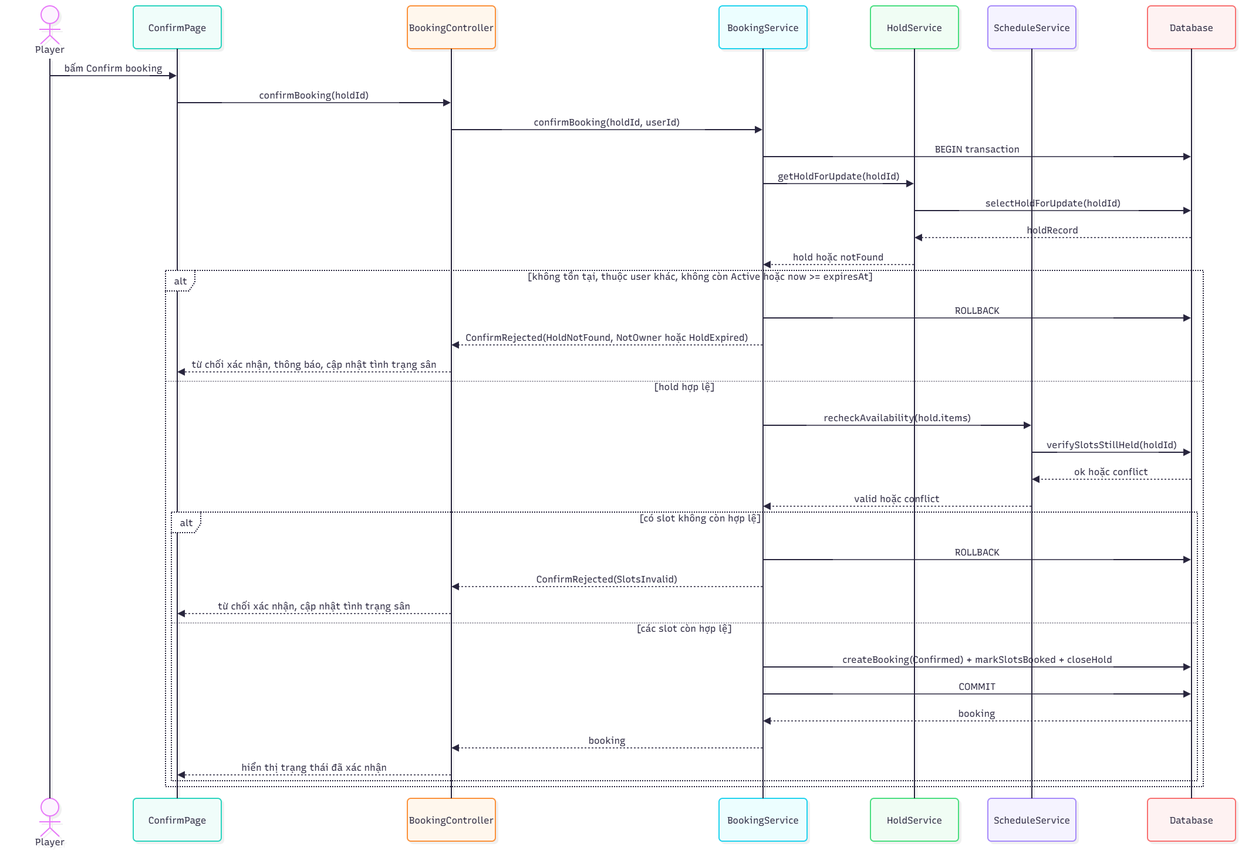
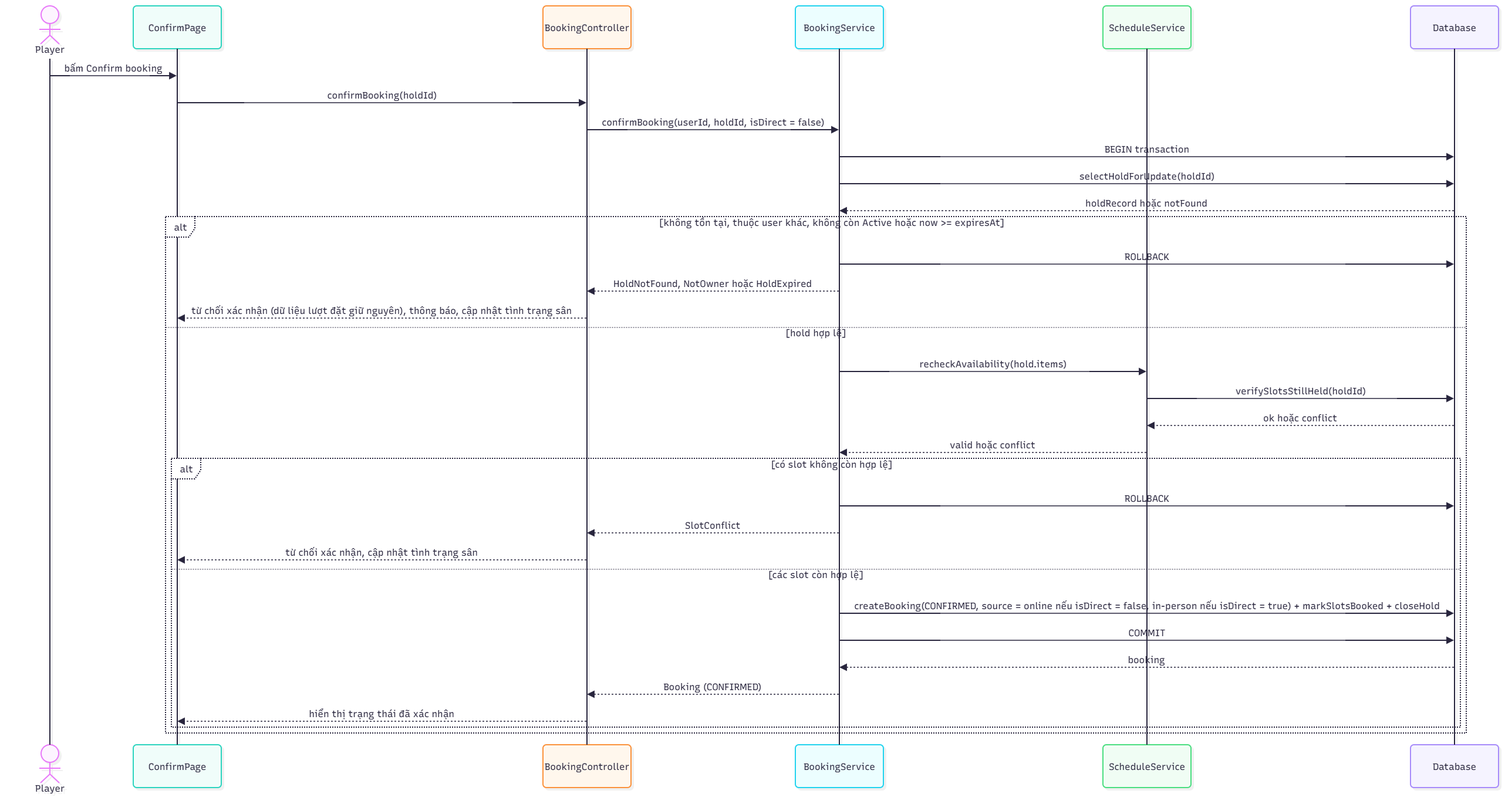
Add files via upload

diff --git a/docs/design/sequences/sequence-diagrams.md b/docs/design/sequences/sequence-diagrams.md
@@ -12,7 +12,7 @@ Năm sơ đồ tuần tự (sequence diagram) chính bao quát các use case có
 
 **Quy ước chung:**
 
-* Tên lớp và chữ ký phương thức của các thao tác giữ chỗ, xác nhận, nhả chỗ và hủy lượt đặt đã được đối chiếu đồng bộ với Class Diagram (3.3.2 — PR `#31`, mục 3.2 `CLS-08`). Sơ đồ chỉ nêu kết quả nghiệp vụ, không cố định mã HTTP (đối chiếu với đặc tả API 3.1.4 — `#12`).
+* Tên lớp và chữ ký phương thức của các thao tác giữ chỗ, xác nhận, nhả chỗ và hủy lượt đặt đã được đối chiếu đồng bộ với Class Diagram (3.3.2 — PR `#31`, mục 3.2 `CLS-08`) theo chuẩn **tham số đầu là `userId`** (thống nhất với `createHold(userId, ...)`) và do `BookingService` thực hiện trực tiếp, không qua lớp trung gian `HoldService`. Sơ đồ chỉ nêu kết quả nghiệp vụ, không cố định mã HTTP (đối chiếu với đặc tả API 3.1.4 — `#12`).
 * "Một transaction" là yêu cầu: kiểm tra và ghi nằm trong cùng một thao tác nguyên tử, tất cả hoặc không có gì. Cơ chế chống trùng (ràng buộc dữ liệu, khóa, mức cô lập) được thiết kế chi tiết tại 3.1.2 (`#10`).
 * Luật nghiệp vụ (cùng cơ sở, slot liên tiếp, hạn chót đặt, 24 giờ, 3 giờ) nằm ở backend. Đồng hồ là của máy chủ.
 * Kiểm tra xác thực (`verifySession`) chỉ vẽ ở `SEQ-01`; các sơ đồ sau coi như đã đăng nhập.
@@ -75,7 +75,7 @@ sequenceDiagram
 
 * **Truy vết:** UC-06, FR-11, FR-12, FR-14, FR-15, FR-31, BR-01, BR-06, BR-15, NFR-02, NFR-03, AC-19, AC-35, AC-36, AC-38, AC-39.
 
-Người chơi xác nhận khi hold còn hiệu lực. Toàn bộ việc đọc hold, kiểm tra và ghi nằm trong **một transaction**: hold được khóa để đọc, kiểm tra quyền sở hữu, trạng thái `Active` và `now < expiresAt`, rồi kiểm tra lại các slot. Việc từ chối khi hết hạn dựa trên `expiresAt`, **không** chờ tác vụ nhả chạy (xem `SEQ-02B`): người dùng xác nhận sau khi lượt giữ hết hạn (`now >= expiresAt`) phải nhận kết quả từ chối `ConfirmRejected(HoldExpired)` và dữ liệu lượt đặt giữ nguyên (FR-11, AC-35). Nếu hợp lệ, booking được tạo ở trạng thái `Confirmed`, các slot chuyển sang `Booked` và hold đóng. Nếu xác nhận và nhả hết hạn xảy ra cùng lúc thì chỉ một bên thắng nhờ khóa trên hold.
+Người chơi xác nhận khi hold còn hiệu lực qua `BookingService.confirmBooking(userId, holdId, isDirect)`; `isDirect` mặc định `false` với người chơi. Toàn bộ việc đọc hold, kiểm tra và ghi nằm trong **một transaction**: hold được khóa để đọc, kiểm tra quyền sở hữu, trạng thái `Active` và `now < expiresAt`, rồi kiểm tra lại các slot. Việc từ chối khi hết hạn dựa trên `expiresAt`, **không** chờ tác vụ nhả chạy (xem `SEQ-02B`): người dùng xác nhận sau khi lượt giữ hết hạn (`now >= expiresAt`) phải nhận kết quả từ chối `HoldExpired` và dữ liệu lượt đặt giữ nguyên (FR-11, AC-35). Nếu hợp lệ, booking được tạo ở trạng thái `CONFIRMED`, các slot chuyển sang `Booked` và hold đóng. Nếu xác nhận và nhả hết hạn xảy ra cùng lúc thì chỉ một bên thắng nhờ khóa trên hold.
 
 
 *Hình 4.4.2 — Sơ đồ tuần tự cho UC-06 (`SEQ-02`)*
@@ -86,22 +86,19 @@ sequenceDiagram
     participant ConfirmPage
     participant BookingController
     participant BookingService
-    participant HoldService
     participant ScheduleService
     participant Database
 
     Player->>ConfirmPage: bấm Confirm booking
     ConfirmPage->>BookingController: confirmBooking(holdId)
-    BookingController->>BookingService: confirmBooking(holdId, userId)
+    BookingController->>BookingService: confirmBooking(userId, holdId, isDirect = false)
     BookingService->>Database: BEGIN transaction
-    BookingService->>HoldService: getHoldForUpdate(holdId)
-    HoldService->>Database: selectHoldForUpdate(holdId)
-    Database-->>HoldService: holdRecord
-    HoldService-->>BookingService: hold hoặc notFound
+    BookingService->>Database: selectHoldForUpdate(holdId)
+    Database-->>BookingService: holdRecord hoặc notFound
 
     alt không tồn tại, thuộc user khác, không còn Active hoặc now >= expiresAt
         BookingService->>Database: ROLLBACK
-        BookingService-->>BookingController: ConfirmRejected(HoldNotFound, NotOwner hoặc HoldExpired)
+        BookingService-->>BookingController: HoldNotFound, NotOwner hoặc HoldExpired
         BookingController-->>ConfirmPage: từ chối xác nhận (dữ liệu lượt đặt giữ nguyên), thông báo, cập nhật tình trạng sân
     else hold hợp lệ
         BookingService->>ScheduleService: recheckAvailability(hold.items)
@@ -111,13 +108,13 @@ sequenceDiagram
 
         alt có slot không còn hợp lệ
             BookingService->>Database: ROLLBACK
-            BookingService-->>BookingController: ConfirmRejected(SlotsInvalid)
+            BookingService-->>BookingController: SlotConflict
             BookingController-->>ConfirmPage: từ chối xác nhận, cập nhật tình trạng sân
         else các slot còn hợp lệ
-            BookingService->>Database: createBooking(Confirmed) + markSlotsBooked + closeHold
+            BookingService->>Database: createBooking(CONFIRMED, source = online nếu isDirect = false, in-person nếu isDirect = true) + markSlotsBooked + closeHold
             BookingService->>Database: COMMIT
             Database-->>BookingService: booking
-            BookingService-->>BookingController: booking
+            BookingService-->>BookingController: Booking (CONFIRMED)
             BookingController-->>ConfirmPage: hiển thị trạng thái đã xác nhận
         end
     end
@@ -129,7 +126,7 @@ sequenceDiagram
 
 Sơ đồ này thể hiện bốn tình huống của một hold đang `Active`:
 
-* **Hết hạn 5 phút:** hold chuyển `Expired` (từ chối xác nhận ngay, giao diện hiển thị thông báo hết hạn và khóa nút xác nhận trong lúc nhả), tác vụ nền nhả slot trong vòng 5 giây rồi hold sang `Released`. Trong trạng thái `Expired`, giao diện nhận **ba kết quả khác nhau** từ `getHoldStatus` (FR-14, AC-20):
+* **Hết hạn 5 phút:** hold chuyển `Expired` (từ chối xác nhận ngay, giao diện hiển thị thông báo hết hạn và khóa nút xác nhận trong lúc nhả), tác vụ nền nhả slot trong vòng 5 giây rồi hold sang `Released`. Trong trạng thái `Expired`, giao diện đọc trực tiếp **ba trạng thái khác nhau** từ phản hồi API `#12` (`releaseHold` / `getActiveHold`) (FR-14, AC-20):
   * `Releasing`: đang giải phóng. Giao diện vẫn hiển thị thông báo hết hạn, tạm khóa nút xác nhận, **chưa** cho chọn lại và **không** báo lỗi; tiếp tục hỏi lại trạng thái.
   * `ReleaseFailed`: giải phóng thất bại (tác vụ nhả báo lỗi, hoặc quá 5 giây sau `expiresAt` mà hold vẫn chưa `Released`). Chỉ khi đó giao diện mới báo lỗi giải phóng và không cho tiếp tục như thể đã nhả; tác vụ nền thử lại ở chu kỳ sau.
   * `Released`: giải phóng thành công. Chỉ lúc này giao diện mới cho chọn lại và cập nhật tình trạng sân.
@@ -144,7 +141,7 @@ sequenceDiagram
     actor Player
     participant ConfirmPage
     participant BookingController
-    participant HoldService
+    participant BookingService
     participant ReleaseJob
     participant Database
 
@@ -153,22 +150,22 @@ sequenceDiagram
     alt hold hết hạn 5 phút
         Note over ConfirmPage: đếm ngược về 0 theo expiresAt của server, hiển thị thông báo hết hạn, khóa nút Confirm trong lúc nhả
         loop mỗi chu kỳ không quá 1 giây
-            ReleaseJob->>HoldService: releaseExpiredHolds(now)
-            HoldService->>Database: markExpired(holds có expiresAt <= now)
-            HoldService->>Database: releaseSlots(holds vừa hết hạn)
+            ReleaseJob->>BookingService: releaseExpiredHolds(now)
+            BookingService->>Database: markExpired(holds có expiresAt <= now)
+            BookingService->>Database: releaseSlots(holds vừa hết hạn)
 
             alt nhả thành công
-                Database-->>HoldService: ok (hold Released, slot Available)
+                Database-->>BookingService: ok (hold Released, slot Available)
             else nhả lỗi
-                Database-->>HoldService: error (hold giữ Expired, ghi nhận nhả lỗi, thử lại ở chu kỳ sau)
+                Database-->>BookingService: error (hold giữ Expired, ghi nhận nhả lỗi, thử lại ở chu kỳ sau)
             end
         end
 
-        ConfirmPage->>BookingController: getHoldStatus(holdId)
-        BookingController->>HoldService: getHoldStatus(holdId, userId)
-        HoldService->>Database: selectHold(holdId)
-        Database-->>HoldService: holdRecord
-        HoldService-->>BookingController: status (Released, Releasing hoặc ReleaseFailed)
+        ConfirmPage->>BookingController: getActiveHold()
+        BookingController->>BookingService: getActiveHold(userId)
+        BookingService->>Database: selectHold(userId)
+        Database-->>BookingService: holdRecord
+        BookingService-->>BookingController: status (Released, Releasing hoặc ReleaseFailed)
 
         alt status = Released
             BookingController-->>ConfirmPage: cho chọn lại, cập nhật tình trạng sân
@@ -180,18 +177,26 @@ sequenceDiagram
 
     else người dùng hủy, quay lại hoặc đổi lựa chọn
         ConfirmPage->>BookingController: releaseHold(holdId)
-        BookingController->>HoldService: releaseHold(holdId, userId)
-        HoldService->>Database: setReleased + releaseSlots (một transaction)
-        Database-->>HoldService: ok
-        HoldService-->>BookingController: Released
-        BookingController-->>ConfirmPage: về màn chọn slot, cập nhật tình trạng sân
+        BookingController->>BookingService: releaseHold(userId, holdId)
+        BookingService->>Database: selectHoldForUpdate(holdId)
+        Database-->>BookingService: holdRecord
+
+        alt hold không thuộc user này
+            BookingService-->>BookingController: NotOwner
+            BookingController-->>ConfirmPage: từ chối nhả, dữ liệu không đổi
+        else đúng chủ hold
+            BookingService->>Database: setReleased + releaseSlots (một transaction)
+            Database-->>BookingService: ok
+            BookingService-->>BookingController: Released
+            BookingController-->>ConfirmPage: về màn chọn slot, cập nhật tình trạng sân
+        end
 
     else tải lại trang
         ConfirmPage->>BookingController: getActiveHold()
-        BookingController->>HoldService: getActiveHold(userId)
-        HoldService->>Database: selectActiveHold(userId)
-        Database-->>HoldService: hold
-        HoldService-->>BookingController: hold(expiresAt, serverNow)
+        BookingController->>BookingService: getActiveHold(userId)
+        BookingService->>Database: selectActiveHold(userId)
+        Database-->>BookingService: hold
+        BookingService-->>BookingController: hold(expiresAt, serverNow)
         BookingController-->>ConfirmPage: tiếp tục đếm ngược, không đặt lại 5 phút
 
     else đóng tab hoặc mất kết nối
@@ -216,30 +221,34 @@ sequenceDiagram
     participant BookingService
     participant Database
 
-    Player->>BookingDetailPage: bấm Cancel
-    BookingDetailPage->>BookingController: cancelBooking(bookingId)
-    BookingController->>BookingService: cancelBooking(bookingId, userId)
+    Player->>BookingDetailPage: bấm Cancel (có thể nhập lý do)
+    BookingDetailPage->>BookingController: cancelBooking(bookingId, reason?)
+    BookingController->>BookingService: cancelBookingByPlayer(userId, bookingId, reason?)
     BookingService->>Database: BEGIN transaction
     BookingService->>Database: getBookingForUpdate(bookingId)
-    Database-->>BookingService: booking
+    Database-->>BookingService: booking hoặc notFound
 
-    alt không tồn tại hoặc không phải chủ booking
+    alt không tồn tại
         BookingService->>Database: ROLLBACK
-        BookingService-->>BookingController: CancelNotAllowed(NotFoundOrNotOwner)
+        BookingService-->>BookingController: BookingNotFound
         BookingController-->>BookingDetailPage: từ chối hủy
-    else booking không ở trạng thái Confirmed
+    else không phải chủ booking
         BookingService->>Database: ROLLBACK
-        BookingService-->>BookingController: CancelNotAllowed(InvalidState)
+        BookingService-->>BookingController: NotOwner
+        BookingController-->>BookingDetailPage: từ chối hủy
+    else booking không ở trạng thái CONFIRMED
+        BookingService->>Database: ROLLBACK
+        BookingService-->>BookingController: InvalidState
         BookingController-->>BookingDetailPage: từ chối hủy
     else còn dưới 3 giờ trước slot sớm nhất
         BookingService->>Database: ROLLBACK
-        BookingService-->>BookingController: CancelNotAllowed(TooLate)
+        BookingService-->>BookingController: CancelDeadlinePassed
         BookingController-->>BookingDetailPage: từ chối hủy
     else đúng chủ, còn ít nhất 3 giờ (đúng 3 giờ vẫn được)
-        BookingService->>Database: setStatus(CancelledByPlayer) + releaseSlots
+        BookingService->>Database: setStatus(CANCELLED_BY_PLAYER, reason) + releaseSlots
         BookingService->>Database: COMMIT
         Database-->>BookingService: ok
-        BookingService-->>BookingController: CancelledByPlayer
+        BookingService-->>BookingController: Booking (CANCELLED_BY_PLAYER)
         BookingController-->>BookingDetailPage: hủy thành công, lịch được cập nhật
     end
 ```
@@ -311,7 +320,7 @@ sequenceDiagram
                     Note over FacilityOwner,CourtSchedulePage: chủ sân xem danh sách mới rồi xác nhận lại, quay về bước confirmBlock
                 else danh sách khớp và hợp lệ
                     ScheduleService->>BookingService: cancelAffected(confirmedBookings, reason)
-                    BookingService->>Database: setStatus(CancelledByOwner) + releaseSlots
+                    BookingService->>Database: setStatus(CANCELLED_BY_OWNER) + releaseSlots
                     Database-->>BookingService: ok
                     BookingService-->>ScheduleService: ok
                     ScheduleService->>Database: createBlockedPeriod(courtId, period)
@@ -334,7 +343,7 @@ sequenceDiagram
 
 * **Truy vết:** UC-13, FR-03, FR-10, FR-11, FR-12, FR-21, FR-22, FR-27, BR-03, BR-08, BR-10, BR-13, NFR-02..04, NFR-08, AC-07, AC-25, AC-33.
 
-Chủ sân đặt thay khách tại quầy theo đúng luồng của người chơi: chọn sân và slot, giữ chỗ, rồi xác nhận (UC-05 và UC-06). Khác biệt: hệ thống kiểm tra chủ sân có quản lý cơ sở đó (`verifyFacilityOwner(userId, facilityId)`), sau đó `BookingController` gọi `BookingService.createHold(userId, FacilityOwner, facilityId, selections, isDirect = true)` (đồng bộ với `CLS-08` ở PR `#31`). Chỉ khi `actorRole = FacilityOwner` đã qua kiểm tra quyền sở hữu `facilityId` và `isDirect = true`, chủ sân mới được miễn giới hạn đặt trước 2 slot (60 phút) để đặt được khung giờ bắt đầu sau 30 phút (FR-27, AC-25), nhưng vẫn không được đè lên slot đang held, booked hoặc unavailable (BR-13). Booking được ghi vào lịch chung với nguồn là `in-person` (không lưu thông tin khách, `ASM-09`). Hold hết hạn, nhả, tải lại và đóng tab xử lý như `SEQ-02B`.
+Chủ sân đặt thay khách tại quầy theo đúng luồng của người chơi: chọn sân và slot, giữ chỗ, rồi xác nhận (UC-05 và UC-06). Khác biệt: hệ thống kiểm tra chủ sân có quản lý cơ sở đó (`verifyFacilityOwner(userId, facilityId)`), sau đó `BookingController` gọi `BookingService.createHold(userId, FacilityOwner, facilityId, selections, isDirect = true)` (đồng bộ với `CLS-08` ở PR `#31`). Chỉ khi `actorRole = FacilityOwner` đã qua kiểm tra quyền sở hữu `facilityId` và `isDirect = true`, chủ sân mới được miễn giới hạn đặt trước 2 slot (60 phút) để đặt được khung giờ bắt đầu sau 30 phút (FR-27, AC-25), nhưng vẫn không được đè lên slot đang held, booked hoặc unavailable (BR-13). Khi xác nhận, `BookingService.confirmBooking(userId, holdId, isDirect = true)` được gọi với `isDirect = true` sau khi đã kiểm tra quyền sở hữu cơ sở. Booking được ghi vào lịch chung với nguồn là `in-person` (không lưu thông tin khách, `ASM-09`). Hold hết hạn, nhả, tải lại và đóng tab xử lý như `SEQ-02B`.
 
 
 *Hình 4.4.5 — Sơ đồ tuần tự cho UC-13 (`SEQ-05`)*
@@ -346,7 +355,6 @@ sequenceDiagram
     participant BookingController
     participant AuthService
     participant BookingService
-    participant HoldService
     participant ScheduleService
     participant Database
 
@@ -360,43 +368,39 @@ sequenceDiagram
     else là chủ cơ sở
         AuthService-->>BookingController: authorized
         BookingController->>BookingService: createHold(userId, FacilityOwner, facilityId, selections, isDirect = true)
-        BookingService->>HoldService: createHold(userId, FacilityOwner, facilityId, selections, isDirect = true)
-        HoldService->>ScheduleService: validateSelection(facilityId, selections, FacilityOwner, isDirect = true, now)
-        Note over HoldService,ScheduleService: isDirect = true tại cơ sở quản lý nên được miễn giới hạn đặt trước 2 slot (đặt trước 30 phút vẫn hợp lệ theo AC-25), các luật khác như SEQ-01
+        BookingService->>ScheduleService: validateSelection(facilityId, selections, FacilityOwner, isDirect = true, now)
+        Note over BookingService,ScheduleService: isDirect = true tại cơ sở quản lý nên được miễn giới hạn đặt trước 2 slot (đặt trước 30 phút vẫn hợp lệ theo AC-25), các luật khác như SEQ-01
 
         alt vi phạm luật lựa chọn
-            ScheduleService-->>HoldService: invalid(reason)
-            HoldService-->>BookingService: SelectionInvalid(reason)
+            ScheduleService-->>BookingService: invalid(reason)
             BookingService-->>BookingController: SelectionInvalid(reason)
             BookingController-->>BookingPage: báo lỗi, không giữ slot nào, xóa lựa chọn
         else lựa chọn đúng luật
-            ScheduleService-->>HoldService: valid
-            HoldService->>Database: createHoldAtomically(userId, facilityId, selections, expiresAt = now + 5 phút)
-            Note over HoldService,Database: một transaction: kiểm tra mọi slot còn trống rồi ghi hold, không đè slot held, booked hoặc unavailable
+            ScheduleService-->>BookingService: valid
+            BookingService->>Database: createHoldAtomically(userId, facilityId, selections, expiresAt = now + 5 phút)
+            Note over BookingService,Database: một transaction: kiểm tra mọi slot còn trống rồi ghi hold, không đè slot held, booked hoặc unavailable
 
             alt slot đang held, booked hoặc unavailable
-                Database-->>HoldService: conflict(slots), rollback, không giữ slot nào
-                HoldService-->>BookingService: SelectionInvalid(slots)
+                Database-->>BookingService: conflict(slots), rollback, không giữ slot nào
                 BookingService-->>BookingController: SelectionInvalid(slots)
                 BookingController-->>BookingPage: báo slot lỗi, xóa lựa chọn
             else giữ chỗ thành công
-                Database-->>HoldService: hold (expiresAt = now + 5 phút)
-                HoldService-->>BookingService: hold
+                Database-->>BookingService: hold (expiresAt = now + 5 phút)
                 BookingService-->>BookingController: hold
                 BookingController-->>BookingPage: màn hình xác nhận + thời gian giữ chỗ còn lại
 
                 FacilityOwner->>BookingPage: bấm Confirm booking
                 BookingPage->>BookingController: confirmBooking(holdId)
-                BookingController->>BookingService: confirmBooking(holdId, userId)
-                Note over BookingController,BookingService: kiểm tra hold và slot trong một transaction như SEQ-02
+                BookingController->>BookingService: confirmBooking(userId, holdId, isDirect = true)
+                Note over BookingController,BookingService: isDirect = true chỉ được truyền sau khi đã kiểm tra quyền sở hữu cơ sở. Kiểm tra hold và slot trong một transaction như SEQ-02
 
-                alt xác nhận bị từ chối (hold hết hạn, không hợp lệ hoặc slot không còn hợp lệ)
-                    BookingService-->>BookingController: ConfirmRejected(reason)
+                alt xác nhận bị từ chối (HoldNotFound, NotOwner, HoldExpired hoặc SlotConflict)
+                    BookingService-->>BookingController: HoldNotFound, NotOwner, HoldExpired hoặc SlotConflict
                     BookingController-->>BookingPage: từ chối xác nhận, cập nhật tình trạng sân
                 else xác nhận thành công
-                    BookingService->>Database: createBooking(source = in-person) + markSlotsBooked + closeHold
+                    BookingService->>Database: createBooking(CONFIRMED, source = in-person) + markSlotsBooked + closeHold
                     Database-->>BookingService: booking
-                    BookingService-->>BookingController: booking
+                    BookingService-->>BookingController: Booking (CONFIRMED)
                     BookingController-->>BookingPage: booking đã ghi vào lịch chung
                 end
             end
@@ -418,22 +422,23 @@ UC-12 (đổi giờ hoạt động hoặc xóa sân) không có sơ đồ riêng
 
 ### 8.1 Bảng thống nhất 4 thao tác trọng tâm (Đồng bộ với Mục 3.2 `CLS-08` của PR `#31`)
 
-| Thao tác | Lớp thực hiện | Tham số | Kết quả thành công | Kết quả khi thất bại | Đối chiếu tình huống kiểm chứng |
-| ----- | ----- | ----- | ----- | ----- | ----- |
-| **Giữ chỗ (`createHold`)** | `BookingService` (gọi `ScheduleService.validateSelection` và ghi nguyên tử) | `(userId, actorRole, facilityId, selections, isDirect)` | `Hold` (`status = Active`, `expiresAt = now + 5 phút`) | `SelectionInvalid(reason)` hoặc `SelectionInvalid(slots)` (rollback toàn bộ, không giữ slot nào) | Chủ sân đã qua `verifyFacilityOwner(userId, facilityId)` gọi với `actorRole = FacilityOwner, isDirect = true` vẫn đặt tại quầy được khi khung giờ bắt đầu sau 30 phút (AC-25). |
-| **Xác nhận (`confirmBooking`)** | `BookingService` (phối hợp `HoldService.getHoldForUpdate` và `ScheduleService.recheckAvailability`) | `(holdId, userId)` | `Booking` (`status = Confirmed`, `source = online` hoặc `in-person`), đóng `Hold`, các slot sang `Booked` | `ConfirmRejected(HoldNotFound \| NotOwner \| HoldExpired \| SlotsInvalid)` (rollback, không tạo booking) | Người dùng xác nhận sau khi lượt giữ hết hạn (`now >= expiresAt`) nhận ngay kết quả từ chối `ConfirmRejected(HoldExpired)`, dữ liệu lượt đặt giữ nguyên (FR-11, AC-35). |
-| **Nhả chỗ (`releaseHold` / `releaseExpiredHolds` / `getHoldStatus`)** | `HoldService` (được gọi từ `BookingController` hoặc `ReleaseJob`) | `releaseHold(holdId, userId)`; `releaseExpiredHolds(now)`; `getHoldStatus(holdId, userId)` | `Released` (hold sang `Released`, slot về `Available`) | Khi hết hạn mà chưa nhả xong: `Releasing` (đang giải phóng $< 5$ giây) hoặc `ReleaseFailed` (nhả lỗi hoặc quá 5 giây) | Giao diện chỉ mở cho chọn lại sau khi nhận `Released` (FR-14, AC-20). |
-| **Hủy lượt đặt (`cancelBooking` / `cancelAffected`)** | `BookingService` | Người chơi: `cancelBooking(bookingId, userId)`; Chủ sân (qua `ScheduleService.applyChange`): `cancelAffected(confirmedBookings, reason)` | `CancelledByPlayer` (khi còn $\ge 3$ giờ) hoặc `CancelledByOwner` (khi còn $\ge 24$ giờ, kèm thông báo), nhả toàn bộ slot của đơn | `CancelNotAllowed(NotFoundOrNotOwner \| InvalidState \| TooLate)` (rollback, giữ nguyên trạng thái `Confirmed`) | Hủy toàn bộ đơn, đúng mốc $\ge 3$ giờ với người chơi (FR-28, AC-26, AC-27) và $\ge 24$ giờ với chủ sân (FR-29, AC-28, AC-29). |
+Chuẩn chung: **tham số đầu là `userId`** (thống nhất với `createHold(userId, ...)`) và `BookingService` thực hiện trực tiếp (không cần lớp trung gian `HoldService`; nếu `SEQ` giữ tên `HoldService` thì ánh xạ 1-1 sang `BookingService`).
+
+| Thao tác | Lớp & Chữ ký chốt | Nguồn / Ghi chú | Kết quả thành công | Kết quả thất bại |
+| ----- | ----- | ----- | ----- | ----- |
+| **Giữ chỗ** | `BookingService.createHold(userId, actorRole, facilityId, selections, isDirect)` | Gọi `ScheduleService.validateSelection` rồi ghi nguyên tử. `isDirect` mặc định `false` với người chơi; chủ sân đã qua `verifyFacilityOwner(userId, facilityId)` gọi với `actorRole = FacilityOwner, isDirect = true` thì đặt tại quầy được khi khung giờ bắt đầu sau 30 phút (AC-25). | `Hold` (`status = Active`, `expiresAt = now + 5 phút`) | `SelectionInvalid(reason)` hoặc `SelectionInvalid(slots)` (rollback toàn bộ, không giữ slot nào) |
+| **Xác nhận lượt đặt** | `BookingService.confirmBooking(userId, holdId, isDirect)` | `isDirect` mặc định `false` với người chơi; với đặt tại quầy được truyền `true` từ tầng đặt tại quầy sau khi đã kiểm tra quyền sở hữu (hoặc đối chiếu khớp với `SlotHold`). Phối hợp `ScheduleService.recheckAvailability`. | `Booking` (`CONFIRMED`) | `HoldNotFound`, `NotOwner`, `HoldExpired`, `SlotConflict` (rollback, dữ liệu giữ nguyên, không tạo booking) |
+| **Nhả chỗ** | `BookingService.releaseHold(userId, holdId)` | UI (`UI-07`) đọc 3 trạng thái `Releasing`, `ReleaseFailed`, `Released` trực tiếp từ phản hồi API `#12` (`releaseHold` / `getActiveHold`). Tác vụ nền `ReleaseJob` gọi `BookingService.releaseExpiredHolds(now)`. | `Released` (hold sang `Released`, slot về `Available`) | `Releasing` (đang xử lý, chờ), `ReleaseFailed` (báo lỗi, giữ màn hình), `NotOwner` |
+| **Người chơi hủy lượt đặt** | `BookingService.cancelBookingByPlayer(userId, bookingId, reason?)` | `reason` là tham số **tùy chọn** (`reason?: String`), có thể bỏ trống. Hủy toàn bộ đơn, đúng mốc $\ge 3$ giờ (FR-28, AC-26, AC-27). Chủ sân hủy do khóa slot đi qua `cancelAffected(confirmedBookings, reason)` ($\ge 24$ giờ, FR-29, AC-28, AC-29). | `Booking` (`CANCELLED_BY_PLAYER`) | `BookingNotFound`, `NotOwner`, `CancelDeadlinePassed` ($< 3$ giờ), `InvalidState` (booking không ở `CONFIRMED`) |
 
 ### 8.2 Danh sách đầy đủ các operation theo lớp
 
 | Lớp | Operation | Truy vết sơ đồ |
 | ----- | ----- | ----- |
-| **BookingController** | `proceedToBooking(facilityId, selections)`; `confirmBooking(holdId)`; `cancelBooking(bookingId)`; `releaseHold(holdId)`; `getActiveHold()`; `getHoldStatus(holdId)` | `SEQ-01`, `SEQ-02`, `SEQ-02B`, `SEQ-03`, `SEQ-05` |
+| **BookingController** | `proceedToBooking(facilityId, selections)`; `confirmBooking(holdId)`; `cancelBooking(bookingId, reason?)`; `releaseHold(holdId)`; `getActiveHold()` | `SEQ-01`, `SEQ-02`, `SEQ-02B`, `SEQ-03`, `SEQ-05` |
 | **FacilityController** | `previewBlock(courtId, period)`; `confirmBlock(courtId, period, confirmedBookings)` (và hai điểm vào tương ứng cho đổi giờ hoạt động, xóa sân) | `SEQ-04`, `SEQ-04B` |
 | **AuthService** | `verifySession()`; `verifyFacilityOwner(userId, facilityId)` | `SEQ-01`, `SEQ-04`, `SEQ-05` |
-| **BookingService** | `createHold(userId, actorRole, facilityId, selections, isDirect)`; `confirmBooking(holdId, userId)`; `cancelBooking(bookingId, userId)`; `cancelAffected(confirmedBookings, reason)` | `SEQ-01`, `SEQ-02`, `SEQ-03`, `SEQ-04`, `SEQ-05` |
-| **HoldService** | `getHoldForUpdate(holdId)`; `releaseHold(holdId, userId)`; `getActiveHold(userId)`; `getHoldStatus(holdId, userId)` (trả `Released`, `Releasing` hoặc `ReleaseFailed`); `releaseExpiredHolds(now)` | `SEQ-02`, `SEQ-02B` |
+| **BookingService** | `createHold(userId, actorRole, facilityId, selections, isDirect)`; `confirmBooking(userId, holdId, isDirect)`; `releaseHold(userId, holdId)`; `getActiveHold(userId)` (trả `Released`, `Releasing` hoặc `ReleaseFailed`); `releaseExpiredHolds(now)`; `cancelBookingByPlayer(userId, bookingId, reason?)`; `cancelAffected(confirmedBookings, reason)` | `SEQ-01`, `SEQ-02`, `SEQ-02B`, `SEQ-03`, `SEQ-04`, `SEQ-05` |
 | **ScheduleService** | `validateSelection(facilityId, selections, actorRole, isDirect, now)`; `recheckAvailability(items)`; `previewChange(change, now)`; `applyChange(change, confirmedBookings, now)` | `SEQ-01`, `SEQ-02`, `SEQ-04`, `SEQ-04B`, `SEQ-05` |
 | **NotificationService** | `notify(players, reason, booking, slots)` | `SEQ-04`, `SEQ-04B` |
 | **ReleaseJob** (tác vụ nền) | gọi `releaseExpiredHolds(now)` theo chu kỳ không quá 1 giây | `SEQ-02B` |
@@ -447,8 +452,6 @@ UC-12 (đổi giờ hoạt động hoặc xóa sân) không có sơ đồ riêng
 
   * \[x\] Đã bao phủ đủ UC-05, UC-06, UC-08, UC-11, UC-13 và bảng so sánh UC-12; có luồng `alt` ở mọi sơ đồ.
 
-  * \[x\] Đã đồng bộ lời gọi giữ chỗ sang `BookingService.createHold(userId, actorRole, facilityId, selections, isDirect)` ở `SEQ-01` (`isDirect = false`), `SEQ-05` (`isDirect = true` sau `verifyFacilityOwner`) và bảng `SEQ-OPS`, khớp với Mục 3.2 (`CLS-08`) trong PR `#31`.
-
   * \[x\] Bước kiểm tra xung đột và ghi hold (`SEQ-01`, `SEQ-05`) và bước kiểm tra, ghi khi xác nhận (`SEQ-02`) nằm trong cùng một transaction; có nhánh thua yêu cầu cùng lúc và nhánh từ chối xác nhận khi hết hạn giữ nguyên dữ liệu lượt đặt (FR-11, AC-35).
 
   * \[x\] `SEQ-02B` thể hiện hết hạn, nhả (kể cả nhả lỗi), hủy, tải lại và đóng tab; mọi operation trong `SEQ-OPS` đều được sơ đồ dùng.
@@ -459,20 +462,19 @@ UC-12 (đổi giờ hoạt động hoặc xóa sân) không có sơ đồ riêng
 
   * \[x\] Đã mở từng khối Mermaid trên preview GitHub (hoặc mermaid.live) và không có lỗi cú pháp.
 
-  * \[x\] Đã xuất lại ảnh `sd-1-uc05.png` và `sd-5-uc13.png` từ nguồn Mermaid đã cập nhật.
 
 * **Các quyết định thiết kế chính:**
 
-  1. Đồng bộ điểm vào tạo hold tại `BookingService.createHold(userId, actorRole, facilityId, selections, isDirect)` (khớp `CLS-08` ở PR `#31`), phối hợp `ScheduleService` kiểm tra luật lựa chọn và `HoldService` quản lý vòng đời giữ chỗ 5 phút / giải phóng; việc ghi hold, xác nhận và áp dụng thay đổi lịch đều nguyên tử (đối chiếu với `#10`).
+  1. Đồng bộ điểm vào tạo hold tại `BookingService.createHold(userId, actorRole, facilityId, selections, isDirect)` (khớp `CLS-08` ở PR `#31`), phối hợp `ScheduleService` kiểm tra luật lựa chọn; `BookingService` thực hiện trực tiếp cả vòng đời giữ chỗ 5 phút / giải phóng (không còn lớp trung gian `HoldService`), mọi thao tác theo chuẩn tham số đầu là `userId`; việc ghi hold, xác nhận và áp dụng thay đổi lịch đều nguyên tử (đối chiếu với `#10`).
 
   2. Mẫu 2 bước (`previewChange` -> `applyChange` kèm kiểm tra lại trong transaction) cho UC-11 và UC-12, với `change` là tham số chung. Chỉ hủy đúng danh sách đã được chủ sân xác nhận và kiểm tra lại; danh sách đổi thì trả danh sách mới để xác nhận lại.
 
   3. Từ chối xác nhận dựa vào `expiresAt` chứ không phụ thuộc tác vụ nhả; tác vụ nền chỉ nhả slot.
 
-* **Điểm còn mở và liên kết đối chiếu (theo phân công tạm thời):**
+* **Điểm còn mở và liên kết đối chiếu :**
 
   * `@Lysivi2005` (phụ trách Class Diagram `#31`, API `#12`, UI `#29`):
-    * Đã thống nhất chữ ký `BookingService.createHold(userId, actorRole, facilityId, selections, isDirect)` và bảng 4 thao tác tại Mục 8.1 với Mục 3.2 (`CLS-08`) của PR `#31`.
-    * Đối chiếu cách trả ba kết quả giải phóng giữ chỗ (`Releasing`, `ReleaseFailed`, `Released`) trong đặc tả giao tiếp API `#12` (Task 3.1.4) và cách UI ở PR `#29` (Task 3.2.1) xử lý từng kết quả (giao diện chỉ cho chọn lại sau khi nhận `Released`).
+    * Đã thống nhất chữ ký `BookingService.createHold(userId, actorRole, facilityId, selections, isDirect)`, `confirmBooking(userId, holdId, isDirect)`, `releaseHold(userId, holdId)`, `cancelBookingByPlayer(userId, bookingId, reason?)` và bảng 4 thao tác tại Mục 8.1 với Mục 3.2 (`CLS-08`) của PR `#31`.
+    * Đối chiếu cách trả ba kết quả giải phóng giữ chỗ (`Releasing`, `ReleaseFailed`, `Released`) qua `releaseHold` / `getActiveHold` trong đặc tả giao tiếp API `#12` (Task 3.1.4) và cách UI ở PR `#29` (Task 3.2.1) xử lý từng kết quả (giao diện chỉ cho chọn lại sau khi nhận `Released`).
   * Thiết kế dữ liệu `#10` (Task 3.1.2 — `@nmt1206` phụ trách): đã đối chiếu ranh giới giao dịch ở `createHoldAtomically`, `confirmBooking`, `cancelBooking`, `applyChange` tại mục `DB-TXN-01`..`05`.
   * `@buikhoa130406` (phụ trách thử kết nối `#7` — Task 2.3.1): kiểm chứng chu kỳ nhả không quá 1 giây; mốc giải phóng 5 giây cần bằng chứng đo riêng.
